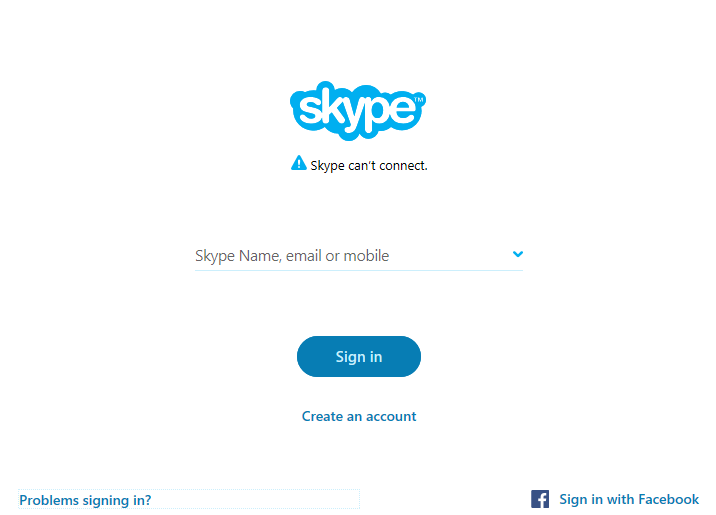
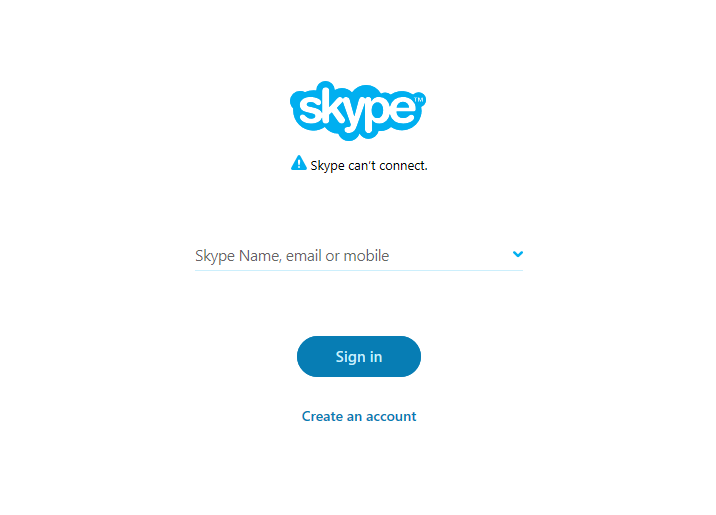
added functionality to my level
updated the javascript file, the html, and css. added functionality to the level, added the mini game and the styles

Changed region(s): [[0.7374, 0.932, 0.9832, 0.9942], [0.0307, 0.9631, 0.2151, 0.9942]]

diff --git a/src/level-alex.js b/src/level-alex.js
@@ -1,0 +1,160 @@
+document.addEventListener("DOMContentLoaded", () => {
+    const binarySequence = '010101011010'; // Binary sequence representing true/false
+    const questionsContainer = document.getElementById('questions');
+    const resultDiv = document.getElementById('result');
+    const errorDiv = document.getElementById('error');
+    const popup = document.getElementById('popup');
+    const overlay = document.getElementById('overlay');
+    const button = document.querySelector('#problemssigninginbutton button');
+    const passwordPopup = document.getElementById('passwordPopup');
+    const passwordInput = document.getElementById('passwordInput');
+    const passwordResultDiv = document.getElementById('passwordResult');
+    const congratulationsDiv = document.getElementById('congratulations');
+    const character = document.querySelector('.character'); // Assuming character has this class
+    let isPopupOpen = false; // Track popup state
+
+    // Function to generate questions based on the binary sequence
+    function generateQuestions(sequence) {
+        questionsContainer.innerHTML = ''; // Clear previous questions
+        for (let i = 0; i < sequence.length; i++) {
+            const isTrue = sequence[i] === '1';
+            const questionHTML = `
+                <div class="question">
+                    <label for="answer${i}">
+                        Question ${i + 1}: Is the bit at position ${i + 1} true (1) or false (0)?
+                    </label>
+                    <input type="radio" name="answer${i}" value="true"> True
+                    <input type="radio" name="answer${i}" value="false"> False
+                </div>
+            `;
+            questionsContainer.innerHTML += questionHTML;
+        }
+    }
+
+    // Function to check the answers
+    window.checkAnswers = function() {
+        let correct = true;
+        for (let i = 0; i < binarySequence.length; i++) {
+            const selected = document.querySelector(`input[name="answer${i}"]:checked`);
+            if (!selected) {
+                correct = false;
+                errorDiv.textContent = 'Please answer all questions.';
+                resultDiv.textContent = '';
+                return;
+            }
+            const answer = selected.value === 'true';
+            const correctAnswer = binarySequence[i] === '1';
+            if (answer !== correctAnswer) {
+                correct = false;
+                errorDiv.textContent = '';
+                resultDiv.textContent = 'Incorrect answers. Try again.';
+                return;
+            }
+        }
+        if (correct) {
+            resultDiv.textContent = 'Congratulations! You guessed the password correctly!';
+            errorDiv.textContent = '';
+            closePopup();
+            showPasswordPopup();
+        }
+    }
+
+    // Function to show the popup
+    function showPopup() {
+        popup.style.display = 'block';
+        overlay.style.display = 'block';
+        generateQuestions(binarySequence);
+        isPopupOpen = true; // Update popup state
+    }
+
+    // Function to close the popup
+    window.closePopup = function() {
+        popup.style.display = 'none';
+        overlay.style.display = 'none';
+        isPopupOpen = false; // Update popup state
+    }
+
+    // Function to show the new password popup
+    function showPasswordPopup() {
+        passwordPopup.style.display = 'block';
+        overlay.style.display = 'block';
+    }
+
+    // Function to close the password popup
+    window.closePasswordPopup = function() {
+        passwordPopup.style.display = 'none';
+        overlay.style.display = 'none';
+    }
+
+    // Function to handle password submission
+    window.submitPassword = function() {
+        const enteredPassword = passwordInput.value.trim();
+        const correctPassword = 'binaryEscapeTeamHasFooledYou';
+        if (enteredPassword === correctPassword) {
+            passwordResultDiv.textContent = 'Correct password!';
+            closePasswordPopup();
+            showCongratulations();
+        } else {
+            passwordResultDiv.textContent = 'Incorrect password. Try again.';
+        }
+    }
+
+    // Function to show the congratulatory image
+    function showCongratulations() {
+        congratulationsDiv.style.display = 'block';
+        overlay.style.display = 'block';
+    }
+
+    // Function to close the congratulatory image
+    window.closeCongratulations = function() {
+        congratulationsDiv.style.display = 'none';
+        overlay.style.display = 'none';
+    }
+
+    // Function to get the element's position
+    function getElementPosition(element) {
+        const rect = element.getBoundingClientRect();
+        return {
+            top: rect.top + window.scrollY,
+            left: rect.left + window.scrollX
+        };
+    }
+
+    let characterInside = false;
+
+    // Function to detect proximity
+    function detectProximity() {
+        const characterPos = getElementPosition(character);
+        const buttonPos = getElementPosition(button);
+
+        const distance = Math.sqrt(
+            Math.pow(buttonPos.left - characterPos.left, 2) + Math.pow(buttonPos.top - characterPos.top, 2)
+        );
+
+        const proximityThreshold = 100;
+
+        if (distance < proximityThreshold && !isPopupOpen) {
+            if (characterInside === false) {
+                showPopup();
+                characterInside = true;
+            }
+        } else if (distance >= proximityThreshold) {
+            characterInside = false;
+        }
+    }
+
+    // Call detectProximity periodically
+    setInterval(detectProximity, 100); // Check every 100ms
+
+    // Event listener for the close button inside the popup
+    const closeButton = document.querySelector('#popup button');
+    console.log("Close button:", closeButton); // Debug log
+    closeButton.addEventListener('click', closePopup);
+
+    // Event listener for the password popup close button
+    const passwordPopupCloseButton = document.querySelector('#passwordPopup button');
+    passwordPopupCloseButton.addEventListener('click', closePasswordPopup);
+});
+
+
+

diff --git a/levels/level-alex.html b/levels/level-alex.html
@@ -11,7 +11,10 @@
 
 
     <body>
-        <header></header>
+
+        <div id="problemssigninginbutton">
+            <button type="button">Problems Signing In?</button>
+        </div>
 
         <main>
             <!-- Div for holding active character frame -->
@@ -20,6 +23,32 @@
                 <div class="characterSpritesheet"></div>
             </div>
         </main>
+
+            <!-- Popup window for the game -->
+        <div id="overlay"></div>
+        <div id="popup">
+            <h2>Guess the Password</h2>
+            <p>Binary Sequence: <span id="binary-sequence">010101011010</span></p>
+            <div id="questions"></div>
+            <button onclick="checkAnswers()">Submit Answers</button>
+            <div id="result" class="feedback"></div>
+            <div id="error" class="error"></div>
+            <button onclick="closePopup()">Close</button>
+        </div>
+
+        <div id="passwordPopup">
+            <h2>New Password</h2>
+            <p>The new password is: <span id="new-password">binaryEscapeTeamHasFooledYou</span></p>
+            <input type="text" id="passwordInput" placeholder="Enter the new password">
+            <button onclick="submitPassword()">Submit Password</button>
+            <div id="passwordResult" class="feedback"></div>
+            <button onclick="closePasswordPopup()">Close</button>
+        </div>
+
+        <div id="congratulations">
+            <button class="close-button" onclick="closeCongratulations()">X</button>
+            <img src="../images/Congratulations.png" alt="Congratulations">
+        </div>
 
         <div id="skypeInterface">
             <img id="skypeInt" src="../images/oldskypeinterface.png" alt="Skype Interface">

diff --git a/levels/level-alex.css b/levels/level-alex.css
@@ -9,3 +9,76 @@ html {
     text-align: center;
     margin-top: 15%;
 }
+
+#problemssigninginbutton {
+    position: absolute;
+    bottom: 5%;
+    right: 65%
+}
+
+#enternewpassword {
+    position: absolute;
+    bottom: 5%;
+    right: 25%;
+}
+
+#popup, #passwordPopup {
+    display: none;
+    position: fixed;
+    top: 20%;
+    left: 50%;
+    transform: translate(-50%, -20%);
+    background: #fff;
+    border: 2px solid #333;
+    padding: 20px;
+    box-shadow: 0 0 10px rgba(0, 0, 0, 0.5);
+    z-index: 1000;
+}
+
+#popup h2, #passwordPopup h2 {
+    margin-top: 0;
+}
+
+#popup button, #passwordPopup button {
+    margin-top: 10px;
+}
+
+#overlay {
+    display: none;
+    position: fixed;
+    top: 0;
+    left: 0;
+    width: 100%;
+    height: 100%;
+    background: rgba(0, 0, 0, 0.5);
+    z-index: 500;
+}
+
+#congratulations {
+    display: none;
+    position: fixed;
+    top: 20%;
+    left: 50%;
+    transform: translate(-50%, -20%);
+    background: #fff;
+    border: 2px solid #333;
+    padding: 20px;
+    box-shadow: 0 0 10px rgba(0, 0, 0, 0.5);
+    z-index: 1000;
+}
+
+#congratulations img {
+    width: 100%;
+    max-width: 400px;
+}
+
+#congratulations .close-button {
+    position: absolute;
+    top: 10px;
+    right: 10px;
+    background: #ff0000;
+    color: #fff;
+    border: none;
+    padding: 5px 10px;
+    cursor: pointer;
+}
